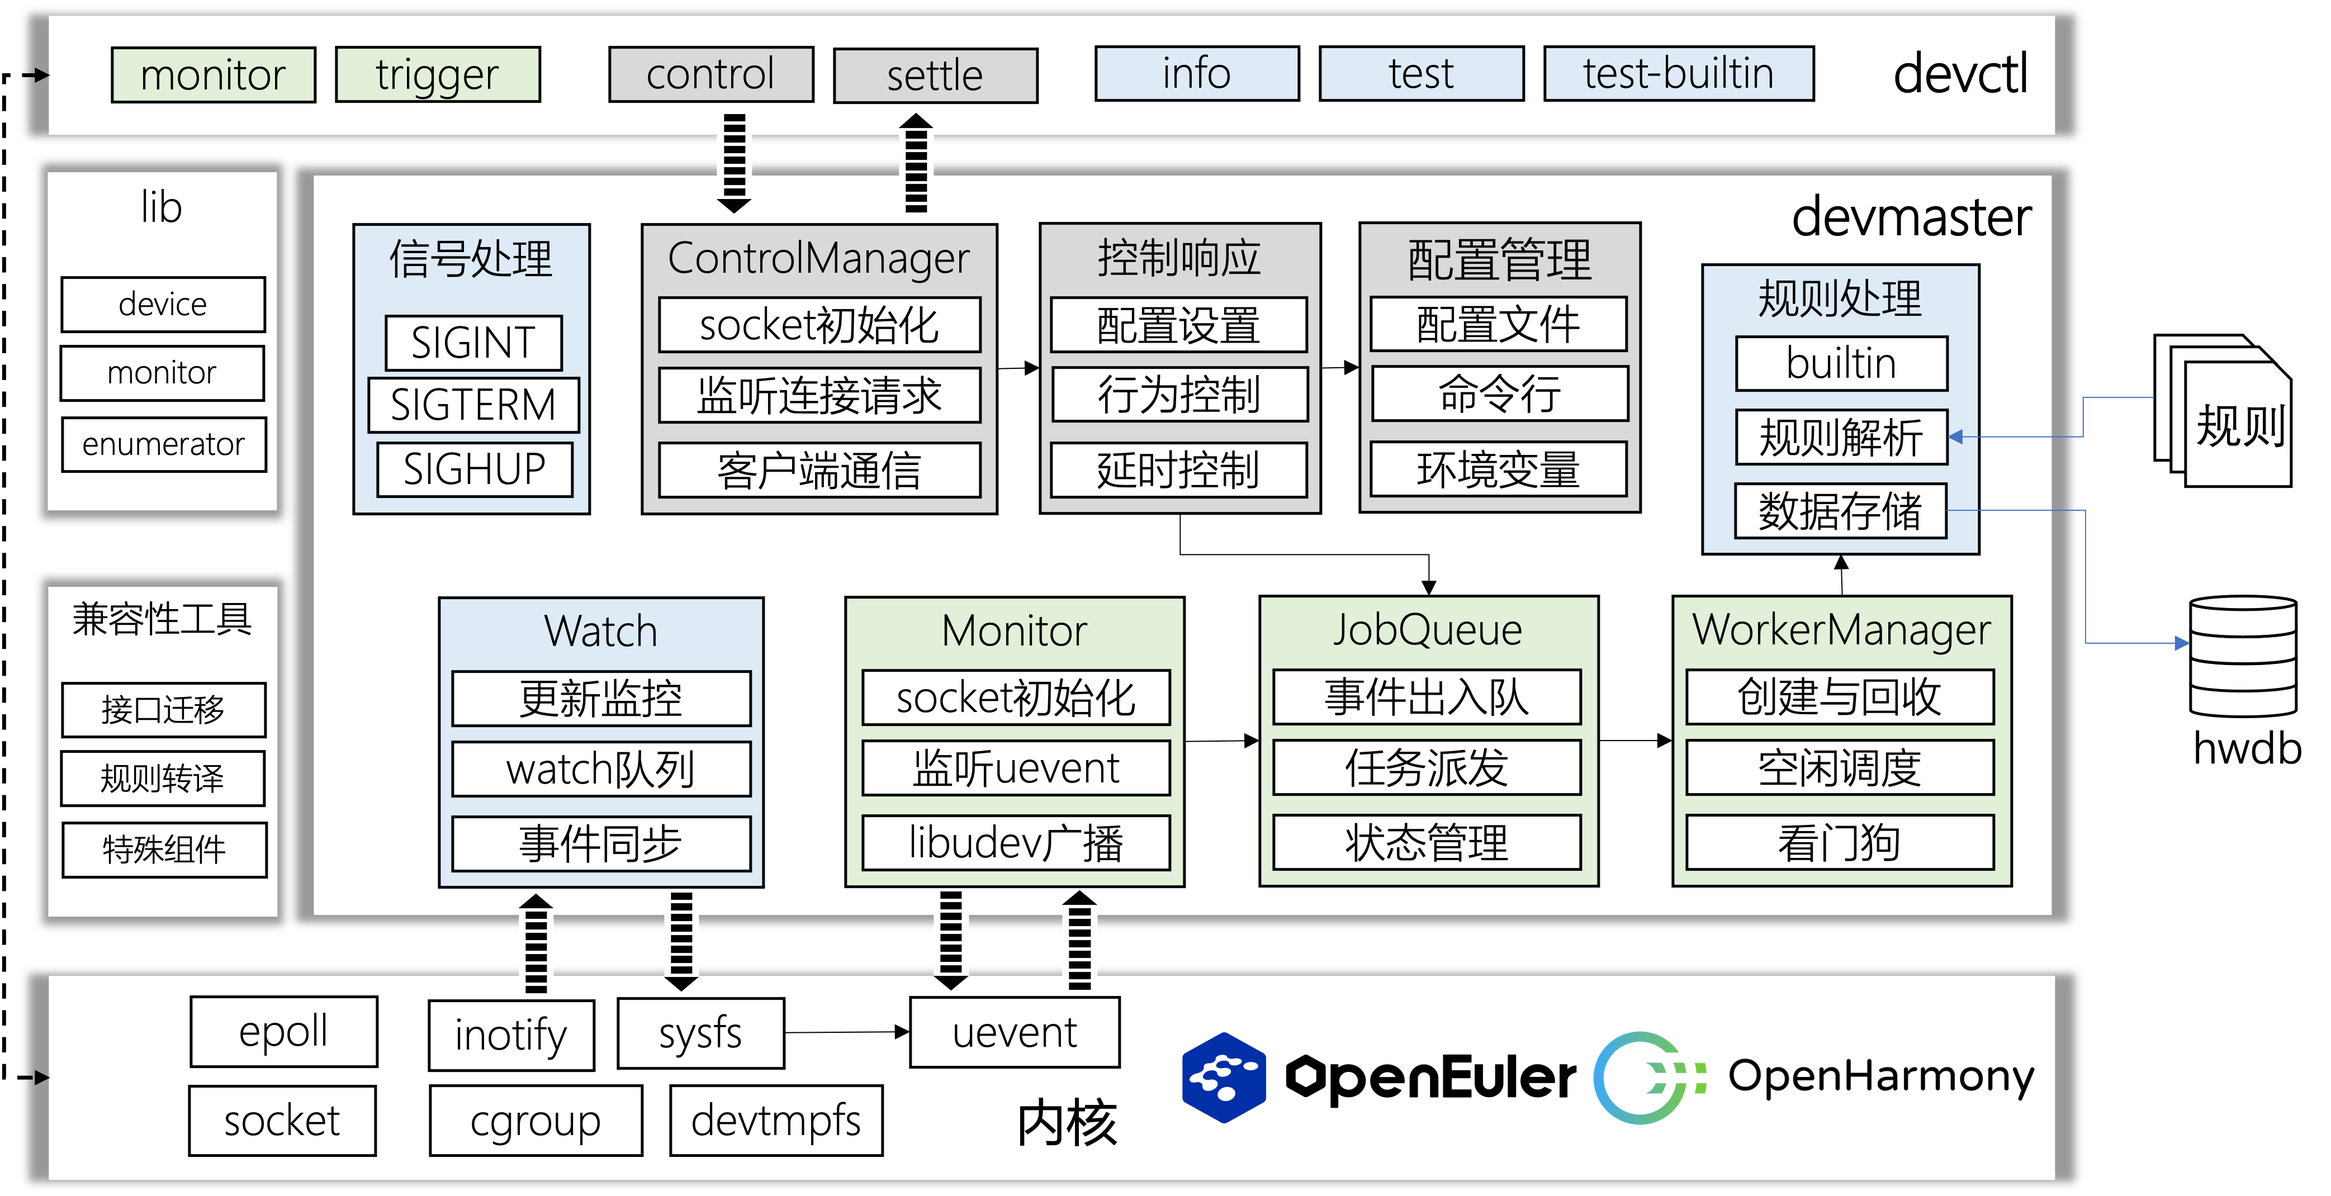
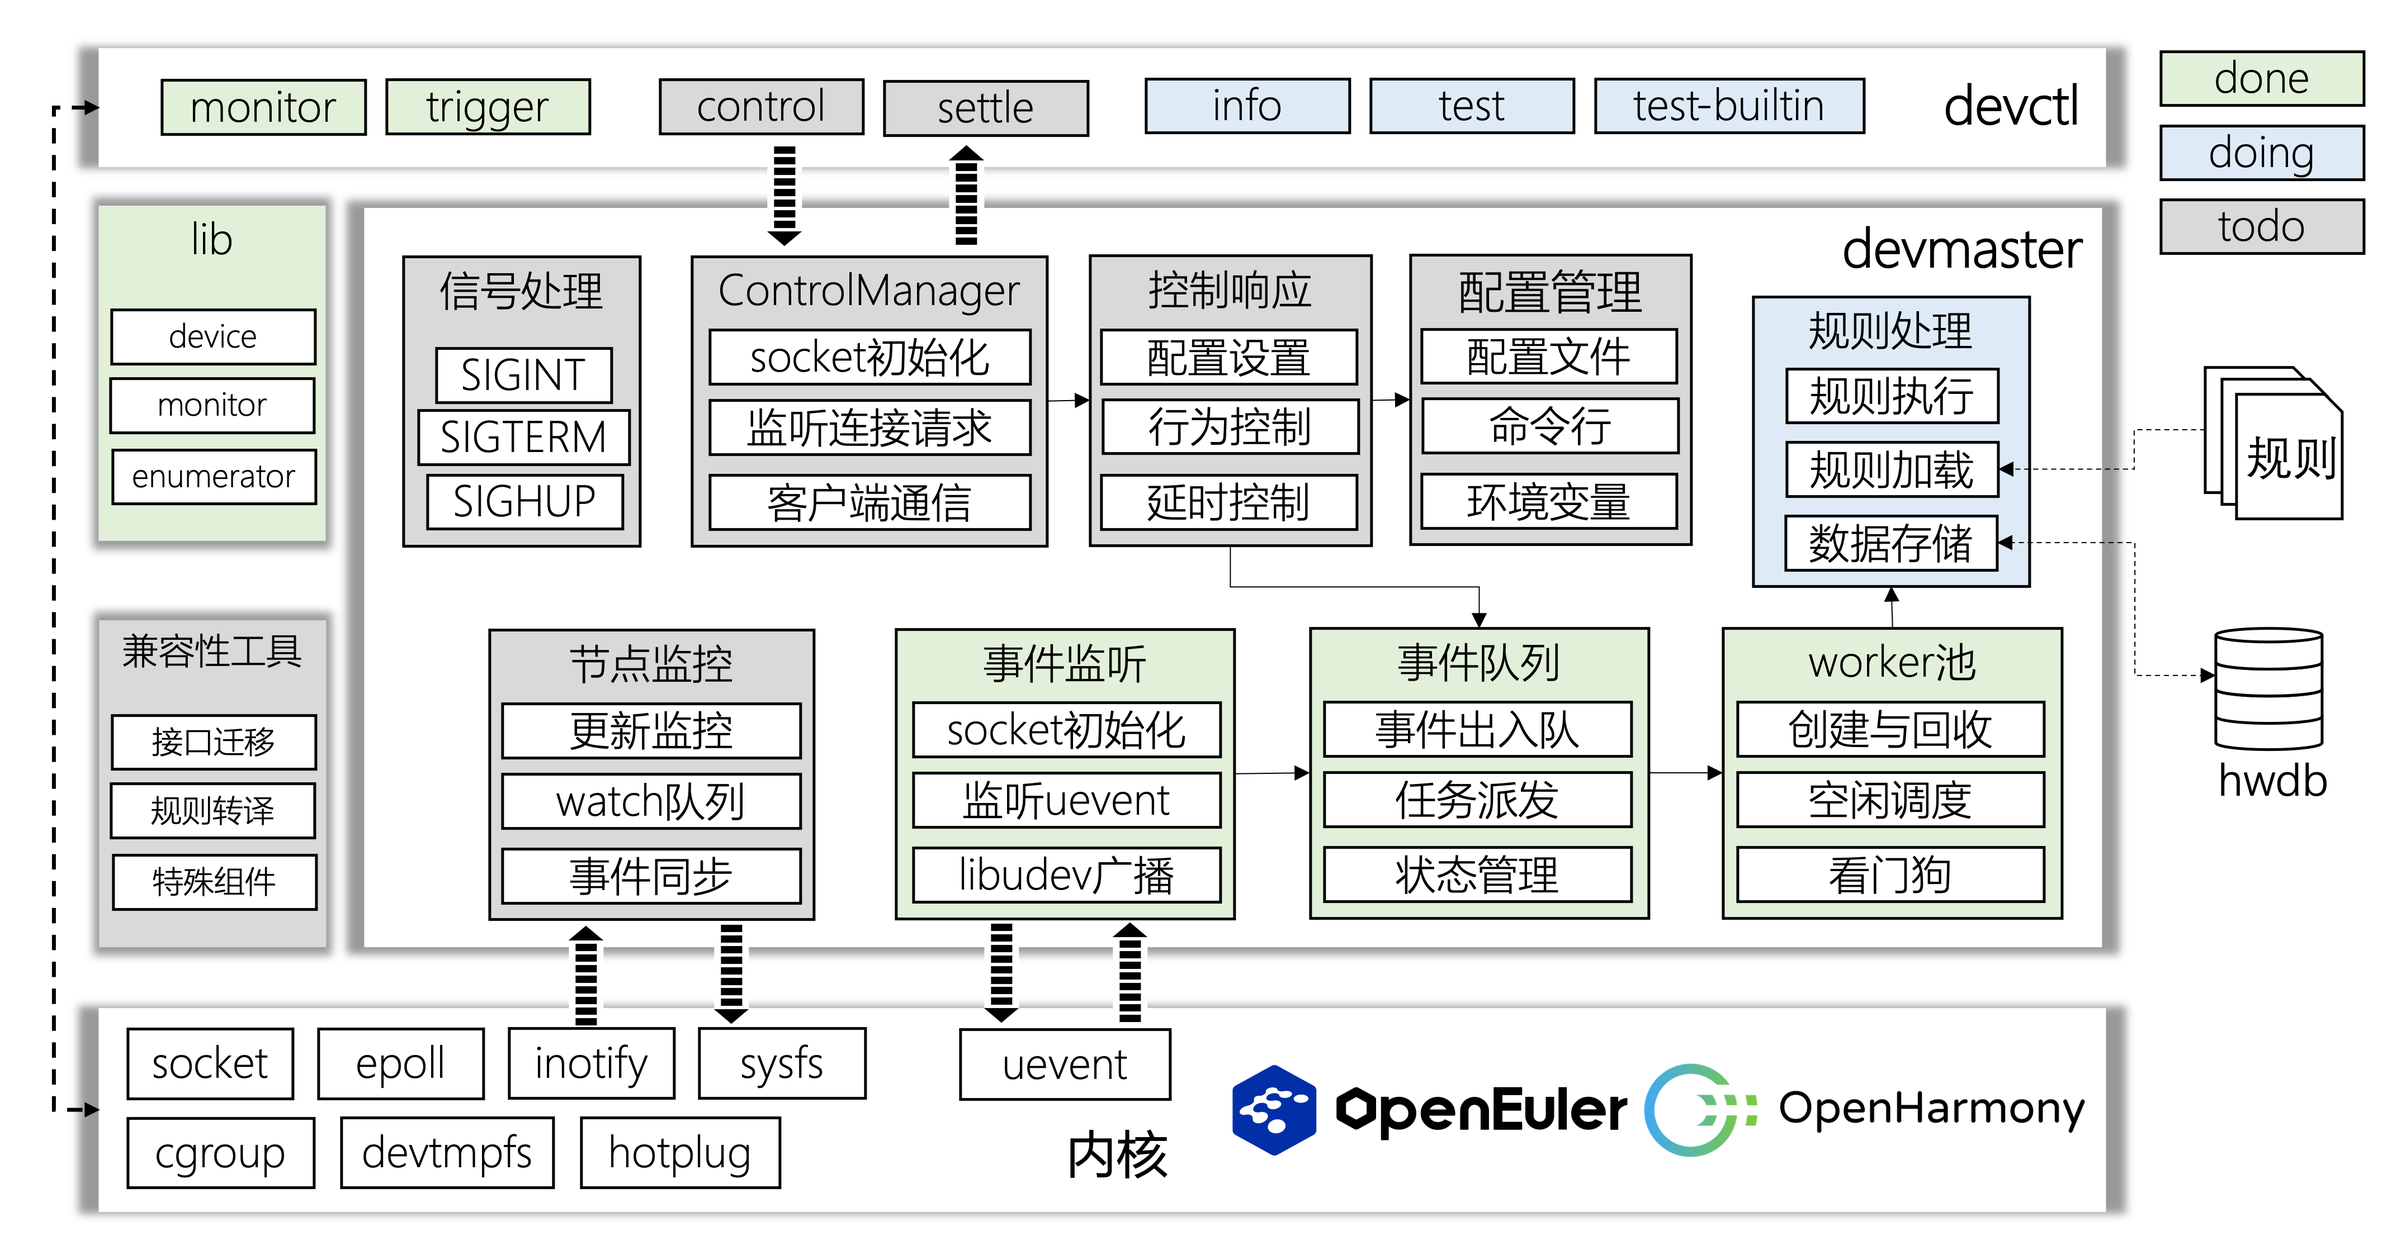
doc(devmaster): update pulic article
add introduction to linux device management and the development plan of devmaster

diff --git a/docs/design/extends/02-devmaster-public-article.md b/docs/design/extends/02-devmaster-public-article.md
@@ -1,41 +1,52 @@
 # devMaster: 新一代设备管理器
 
-## 为什么要开发devMaster
+## 认识`Linux`的设备管理器和`devMaster`
 
-设备管理器是系统中非常重要的组件，承担着设备热插拔感知、设备节点管理等关键工作，是用户态软件与底层物理设备之间的桥梁。sysMaster项目作为openEuler对新一代系统初始化和服务管理系统的探索，集成设备管理功能是必不可少的。devMaster作为sysMaster的设备管理模块，对Linux生态下主流设备管理方案的现状和优劣进行了总结和思考，旨在提供一种通用的、可扩展的、面向通用OS的设备管理能力。
+设备管理器承担着设备热插拔处理、设备节点创建与更新等操作，是系统初始化流程中必不可少的一个环节。`devMaster`作为`sysMaster`的设备管理模块，是支撑系统快速启动、保证系统功能正常运行的重要功能组件。
+
+设备管理器作为链接用户态软件与底层物理设备的桥梁，支撑着许多用户态基础软件，比如`lvm2`、`NetworkManager`等等，是系统用户态的核心组件之一。`Linux`的设备管理机制划分为内核态和用户态：内核承担设备发现的功能，并通过`sysfs`下的`kobject`提供设备信息查询以及与内核交互的接口，另外内核会通过`netlink`通知用户态进程，或者使用`hotplug`机制直接调用用户态程序；用户态设备管理器，比如主流的`udev(userspace device)`，监听内核上报的设备事件，并根据设备属性执行一系列灵活的管理动作，总体来看具备以下几类功能：
+
+1. 管理静态设备节点：但是随着`devtmpfs`在`2009`年收录进`Linux 2.6.32`，静态设备节点由内核进行创建，令一般启动程序不必等待`udev`。
+2. 设备命名映射：内核创建的设备节点，比如`/dev/sda`，往往不具备直观可理解的名称，而`udev`可以提供一种类似`DNS`的命名映射机制，将设备映射到固定可理解的名称上。
+3. 网卡保序：服务器可能通过板载集成、`PCIe`插槽扩展等方式，持有多块网卡，而内核发现并命名网卡的编号具有随机性，导致网卡节点的名称无法对应物理顺序，`udev`通过读取网卡所在的`PCI`总线号、插槽索引等固定信息，将网卡名称固定到特定编号上。
+4. 控制设备节点的权限、动态分配设备的主/次设备号等等。
 
 <center>![](assets/device_management.png)</center>
 
-## 主流的设备管理器
-
-设备管理器的核心功能包括管理设备节点、创建设备软链接、设备热插拔检测等等。在不同的应用场景下，设备管理器提供的能力也会相应地扩展或裁剪。例如，在嵌入式和移动终端场景下，设备数量和种类相对固定且计算资源有限，因此设备管理器更趋向于功能精简和场景定制化，比如mdev仅支持热插拔时的设备节点更新、vold仅提供可插拔存储设备的挂载卸载功能等。而在通用服务器和桌面OS上，由于物理设备种类丰富、数量众多，且上层应用的业务逻辑更加复杂，这要求设备管理器提供更高的灵活性和可扩展性。
+在不同的应用场景下，设备管理器提供的能力也会相应地扩展或裁剪。例如，在嵌入式和移动终端场景下，设备数量和种类相对固定且计算资源有限，因此设备管理器更趋向于功能精简和场景定制化，比如`mdev`仅支持热插拔时的设备节点更新、`vold`仅提供可插拔存储设备的挂载卸载功能等。而在通用服务器和桌面`OS`上，由于物理设备种类丰富、数量众多，且上层应用的业务逻辑更加复杂，这要求设备管理器提供更高的灵活性和可扩展性。
 
 | 设备管理器   | 应用场景      | 说明                                                                     | 热插拔 | 并发处理 | 支持通用设备 | 策略定制 | 更新同步 |
 | ------------ | ------------- | ------------------------------------------------------------------------ | ------ | -------- | ------------ | -------- | -------- |
-| android vold | 移动终端设备  | 支持对可插拔存储设备的挂载和卸载管理                                     | ✔      | ✔        |              |          |          |
-| busybox mdev | 嵌入式设备    | 利用内核的hotplug回调机制触发设备节点更新                                | ✔      | ✔        | ✔            |          |          |
-| systemd udev | 服务器/桌面PC | 主流的用户态设备管理器，具备良好的可扩展性，支持上层软件定制设备处理规则 | ✔      | ✔        | ✔            | ✔        | ✔        |
+| `android vold` | 移动终端设备  | 支持对可插拔存储设备的挂载和卸载管理                                     | ✔      | ✔        |              |          |          |
+| `busybox mdev` | 嵌入式设备    | 利用内核的`hotplug`回调机制触发设备节点更新                                | ✔      | ✔        | ✔            |          |          |
+| `systemd udev` | 服务器/桌面`PC` | 主流的用户态设备管理器，具备良好的可扩展性，支持上层软件定制设备处理规则 | ✔      | ✔        | ✔            | ✔        | ✔        |
 
-udev作为极具代表性的通用OS用户态设备管理器，基本占据了主流的Linux发行版平台。相比于内核态的设备管理方案devfs/devtmpfs，udev提供更灵活、更强大的定制化设备处理能力，比如创建设备软链接、持久化命名、网卡保序等等，这使得上层软件可以更灵活、更方便地实现业务逻辑。但是随着HAL(hardware abstraction layer)和udev的功能整合，以及后续udev与systemd项目的合并，udev的功能越来越臃肿，越来越依赖于systemd的初始化系统生态，这违背了软件设计的分层解耦原则，导致其他软件被强行绑定到systemd生态中。
+`udev`作为极具代表性的通用OS用户态设备管理器，基本占据了主流的`Linux`发行版平台。相比于早期内核态的设备管理方案`devfs/devtmpfs`，`udev`提供更灵活、更强大的定制化设备处理能力，比如创建设备软链接、持久化命名、网卡保序等等，使得上层软件可以更灵活、更方便地实现业务逻辑。但是随着`HAL(hardware abstraction layer)`和`udev`的功能整合，以及后续`udev`与`systemd`项目的合并，`udev`的功能越来越臃肿，越来越依赖于`systemd`的初始化系统生态，这违背了软件设计的分层解耦原则，导致其他软件被强行绑定到`systemd`生态中。
 
-## devMaster的愿景
+`sysMaster`项目作为`openEuler`对新一代系统初始化和服务管理系统的探索，集成设备管理功能是必不可少的。`devMaster`作为`sysMaster`的设备管理组件，一方面支撑`sysMaster`的快速启动以及用户态软件的生态兼容，另一方面通过对`Linux`生态下主流设备管理方案的现状和优劣进行了总结和思考，希望提供一种分层解耦、可扩展性强、面向通用`OS`的设备管理能力。
 
-作为系统初始化以及常态运行下关键的系统功能，用户态设备管理器需要具备极高的可靠性、运行效率以及可扩展性，是支撑虚拟机/物理机启动与运行必不可少的系统组件。因此，devMaster的目标主要包含以下几点：
+## `devMaster`的愿景与原理
 
-1. 消除系统层面的内存安全问题，减少运行故障的可能性，提高设备管理器的可靠性。
-2. 保证系统南北向的兼容能力，支持从传统udev生态到devMaster的无缝迁移。
-3. 采用分层解耦的软件设计，保证设备管理的轻量级、高效率，同时具备极致的可扩展能力。
+作为系统初始化以及常态运行下关键的系统功能，用户态设备管理器需要具备极高的可靠性、运行效率以及可扩展性，是支撑虚拟机/物理机启动与运行必不可少的系统组件。因此，`devMaster`的目标主要包含以下几点：
 
-## devMaster的特点
+1. 消除系统层面的内存安全问题，降低高并发场景下的设备竞争的负面影响，提高设备管理器的可靠性和鲁棒性。
+2. 南向兼容`Linux`和鸿蒙微内核生态，北向兼容现有用户态软件的`udev`规则配置和`libudev`动态库接口调用，支持无缝迁移`devMaster`工具链。
+3. 采用分层解耦的软件设计，保证设备管理器的轻量级、高效率，同时具备极致的可扩展能力。
+
+<center>![](assets/devmaster_mechanism.png)</center>
+
+`devMaster`的软件架构遵循高内聚、低耦合的设计原则，保证各组件职责独立，提高软件可复用、可替换、可扩展能力，降低开发维测成本。`devMaster`主要包含四部分组件，分为常驻进程`devmaster`、客户端工具`devctl`、对外库以及兼容性工具。`devMaster`使用`Rust`语言编写，能够原生消除内存安全类问题。`devMaster`的核心原理如下：
+
+1. 事件驱动：实时监听设备热插拔事件，并利用队列分级技术，满足事件高并发场景，缓解设备竞争问题，同时使用`worker`池机制支撑事件并发处理能力，提高事件处理的吞吐量，支撑秒级启动能力。
+2. 机制与策略分离：通过将事件处理的行为定义在外部规则文件中，避免设备处理逻辑硬编码，并支持设备规则按需组合、定制、裁剪，提供灵活、强大的可扩展能力。
+3. 可维可测：通过客户端工具`devctl`提供对`devmaster`的用户端控制接口，提升`devmaster`的可维可测能力，并兼容`udevadm`选项，支持用户使用习惯的平滑迁移。
+4. `Rust`工具链：对外库提供开发者获取硬件设备信息以及与`devmaster`交互的对外接口，完善`Rust`语言在设备管理领域的三方库与工具链。
+5. 生态兼容：提供完善的南北向兼容性工具，比如`udev`规则转译工具、对外库的`Rust2C`接口迁移、特殊设备组件等，支持`udev`到`devMaster`生态的无缝迁移。依托欧拉鸿蒙生态，打通嵌入式/物理机/虚拟机OS全场景。
+
+总的来说，`devMaster`的设计旨在简化系统架构，并通过多项关键技术确保设备管理器具备机制的可扩展性、可靠性、可维可测能力、软件性能以及生态兼容能力，是一款非常有价值的设备管理工具。
+
+## `devMaster`全景图
 
 <center>![](assets/devmaster_architecture.png)</center>
 
-devMaster的软件架构遵循高内聚、低耦合的设计原则，保证各组件职责独立，提高软件可复用、可替换、可扩展能力，降低开发维测成本。devMaster主要包含四部分组件，分为常驻进程devmaster、客户端工具devctl、对外库以及兼容性工具。devMaster使用Rust语言编写，能够原生消除内存安全类问题。另外，devMaster具备以下主要特点：
-
-1. 实时监听设备事件并触发规则处理，采用机制与策略分离的设计，将事件处理的行为定义在外部规则文件中，避免设备处理逻辑硬编码，并支持设备规则按需组合、扩展、裁剪。
-2. 采用多线程的并发设计，并利用队列分级技术，提高事件处理的吞吐量，缓解设备竞争问题，增强高并发场景下设备管理器的鲁棒性，支撑OS秒级启动能力。
-3. 通过客户端工具提供对devmaster的用户端控制接口，提升devmaster的可维可测能力，并兼容udevadm选项，支持用户使用习惯的平滑迁移。
-4. 对外库提供开发者获取硬件设备信息以及与devmaster交互的对外接口，填补Rust语言在设备管理领域的三方库空白。
-5. 提供完善的南北向兼容性工具，比如udev规则转译工具、对外库的Rust2C接口迁移、特殊设备组件等，支持udev到devmaster生态的无缝迁移。依托欧拉鸿蒙生态，打通嵌入式/物理机/虚拟机OS全场景。
-
-总的来说，devMaster的设计旨在简化系统架构，并通过多项关键技术确保设备管理器具备机制的可扩展性、可靠性、可维可测能力、软件性能以及生态兼容能力，是一款非常有价值的设备管理工具。
+今年`sysMaster`将聚焦系统快速启动能力，而`devMaster`作为支撑快速启动的核心功能组件，在`2022年12月份`完成了顶层设计并规划了预计3个季度的开发路标，`2023年1月份`期间`devMaster`在`sysMaster`项目中贡献了第一次提交并自此开始了正式的编码工作。`devMaster`目前仍处于快速迭代，在第一个季度中，我们已完成了事件驱动的软件运行框架编码，包括事件监听模块、事件队列模块和worker池，另外我们也完成了`libdevice`库的主体功能以及`devctl`部分子命令的开发。在第二个季度中，我们重点投入规则处理模块，目前已支持规则加载以及部分规则执行功能，并且将在后续引入`devctl`的用户调测接口。第三个季度，我们计划完成余下的诸如配置管理、控制管理、节点监控、兼容性工具等特性编码，并逐步嵌入`initramfs`启动以及主系统初始化流程，支撑物理盘、逻辑卷、PXE等不同系统启动需求，最终覆盖物理机、虚拟机等全场景的快速启动能力。

diff --git a/docs/design/extends/02-devmaster-architecture.md b/docs/design/extends/02-devmaster-architecture.md
@@ -57,7 +57,7 @@ devmaster包含两个可执行文件：常驻进程devmaster和客户端工具de
 
 devmaster采用基于epoll的event异步编程框架，当内核上报uevent事件或者用户通过devctl工具发送控制命令后，将激活devmaster进入设备处理流程。基本框架分成三个层次，第一层次包含ControlManager和Monitor模块，负责接收设备事件，ControlManager负责接收devctl发送的控制指令，用户可以通过devct对devmaster的框架功能进行调试，Monitor负责监听内核上报的uevent事件，第二层次为JobQueue模块，devmaster接收到设备事件后需要插入到任务队列中进行缓存，并等待派发给空闲worker进程设备处理，队列中的各个事件具有状态，JobQueue需要维护和刷新事件状态，第三层次为WorkerManager模块，当任务队列中存在待处理事件时，由WorkerManager分配或者创建空闲的worker，并派发事件给worker进行处理，WorkerManager需要维护和刷新worker的状态，worker接收到待处理事件时，会在日志中打印接收记录，处理成功后，向外广播设备信息，并向WorkerManager通过tcp发送应答消息。各模块间的依赖关系如下图所示，ControlManager和Monitor持有JobQueue的引用，当接收到设备事件后，插入到任务队列中，JobQueue和WorkerManager相互持有引用，JobQueue中存在待处理任务时，会向WorkerManager分发，如果获取到空闲worker，则更新任务状态，WorkerManager获取到空闲的worker时，会将设备任务发送给该worker进行处理，处理完成后，WorkerManager通过JobQueue更新任务状态。
 
-<center>![](assets/devmaster_basic_framework.jpg)</center>
+<center>![](assets/devmaster_basic_framework.png)</center>
 
 ### 3.4 模块分析
 
